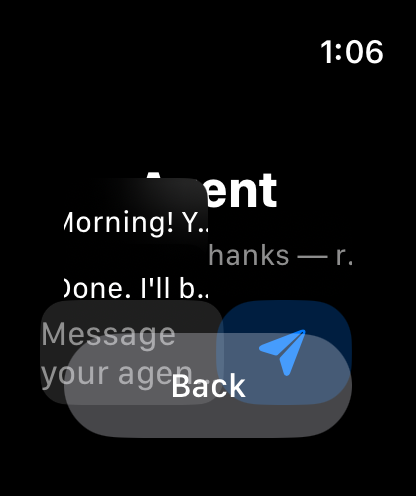
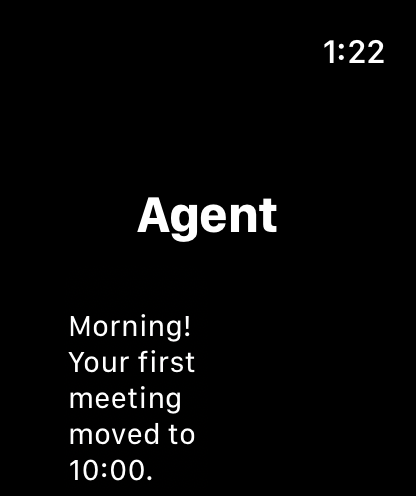
fix(watchos): wrap watch content in a ScrollView so multi-line labels lay out correctly
The shared AgentChatScreen rendered with overlapping/truncated bubbles on watch. Root
cause (isolated with an env-gated diagnostic tree of plain wrapping labels): watchOS hosts
app content in a HEIGHT-CONSTRAINED context, so the root VStack divided the ~200pt screen
height among its children — each multi-line label got only ~1-2 lines of slot. Without a
scroll context the labels either truncated (Text obeys the squeezed height) or, with
fixedSize, overflowed their too-small slot and OVERLAPPED the next view.

Fix: ContentView wraps the Crystal-rendered screen in a SwiftUI ScrollView — it proposes
unbounded height, so each label gets its full wrapped height, content taller than the
watch scrolls, and nothing overlaps. This is the same role the macOS host`s NSScrollView
plays (748911b2). Proven via the diagnostic: 3 long labels each fully wrap with correct
spacing and zero overlap; the real screen now shows "Agent" + a fully-wrapped
"Morning! Your first meeting moved to 10:00." bubble.

Also this iteration:
- root_fill honored on watch: apsk_make_watch_stack gained a root_fill param (Crystal fun
  + .m trampoline + WatchStackFacade). On watch it fills WIDTH only and top-aligns — NOT
  maxHeight:.infinity, which is pathological inside the scroll context (unbounded height
  proposal + a Spacer can`t resolve → collapse).
- Investigated and REJECTED a fixedSize(horizontal:false, vertical:true) approach in
[…]

diff --git a/swift/AssetPipelineSwiftKit/Sources/AssetPipelineSwiftKit/Facades/WatchStackFacade.swift b/swift/AssetPipelineSwiftKit/Sources/AssetPipelineSwiftKit/Facades/WatchStackFacade.swift
@@ -20,7 +20,8 @@ public class WatchStackFacade: NSObject {
         axis: Int,
         spacing: Double,
         alignment: Int,
-        overrides: ViewOverrides
+        overrides: ViewOverrides,
+        rootFill: Int
     ) -> APSKPlatformView {
         let stack: AnyView
         if axis == 1 {
@@ -47,7 +48,18 @@ public class WatchStackFacade: NSObject {
         // the same adaptive layout props the imperative UIKit/AppKit stacks do. Without
         // this the watch dropped ALL container layout (root padding incl. safe-area
         // top, content-width pins) and shared screens couldn't reflow to the wrist.
-        let content = CommonModifiers.apply(stack, overrides: overrides)
+        var content = CommonModifiers.apply(stack, overrides: overrides)
+        // root_fill on watch: fill the WIDTH only and top-align. We deliberately do NOT
+        // force maxHeight:.infinity here — watchOS hosts app content in a vertical
+        // scroll context, and an infinite-height frame inside it is pathological (the
+        // scroll view proposes unbounded height, so an inter-section Spacer + the fill
+        // can't resolve and children collapse/overlap). Content taller than the watch
+        // simply scrolls; content shorter is top-aligned by the leading frame alignment.
+        if rootFill != 0 {
+            content = AnyView(
+                content.frame(maxWidth: .infinity, alignment: .top)
+            )
+        }
         return HostingHelpers.host(content, kind: axis == 1 ? "HStack" : "VStack")
     }
 }

diff --git a/samples/initiative-cross-platform-ui-voyager/watchos/Sources/ContentView.swift b/samples/initiative-cross-platform-ui-voyager/watchos/Sources/ContentView.swift
@@ -13,7 +13,15 @@ import SwiftUI
 // DeviceMetrics provider and the screen clamps its content width to the device.
 struct ContentView: View {
     var body: some View {
-        crystalScreen
+        // Wrap the Crystal-rendered screen in a ScrollView. watchOS hosts app content
+        // in a height-constrained context; without an enclosing scroll view the root
+        // VStack divides the small screen height among its children, so multi-line
+        // labels truncate (or overflow and overlap). A ScrollView proposes unbounded
+        // height, so each label gets its full wrapped height and content taller than
+        // the watch scrolls — the same role the macOS host's NSScrollView plays.
+        ScrollView {
+            crystalScreen
+        }
     }
 
     @ViewBuilder

diff --git a/src/ui/native/swiftkit_bridge.m b/src/ui/native/swiftkit_bridge.m
@@ -517,13 +517,13 @@ void *apsk_make_card(const void *child_views, int child_count, void *overrides) 
 // alignment: 0=leading/top,1=center,2=trailing/bottom.
 void *apsk_make_watch_stack(const void *child_views, int child_count,
                             long axis, double spacing, long alignment,
-                            void *overrides) {
+                            void *overrides, int root_fill) {
     Class cls = objc_getClass("APSKWatchStackFacade");
     if (cls == nil) return NULL;
     NSArray *children = apsk_nsarray_from_views(child_views, child_count);
-    SEL sel = sel_registerName("makeStackWithChildViews:axis:spacing:alignment:overrides:");
-    return ((id (*)(Class, SEL, id, long, double, long, id))objc_msgSend)(
-        cls, sel, children, axis, spacing, alignment, (id)overrides);
+    SEL sel = sel_registerName("makeStackWithChildViews:axis:spacing:alignment:overrides:rootFill:");
+    return ((id (*)(Class, SEL, id, long, double, long, id, long))objc_msgSend)(
+        cls, sel, children, axis, spacing, alignment, (id)overrides, (long)root_fill);
 }
 
 void *apsk_make_surface(const void *child_views, int child_count, void *overrides) {
